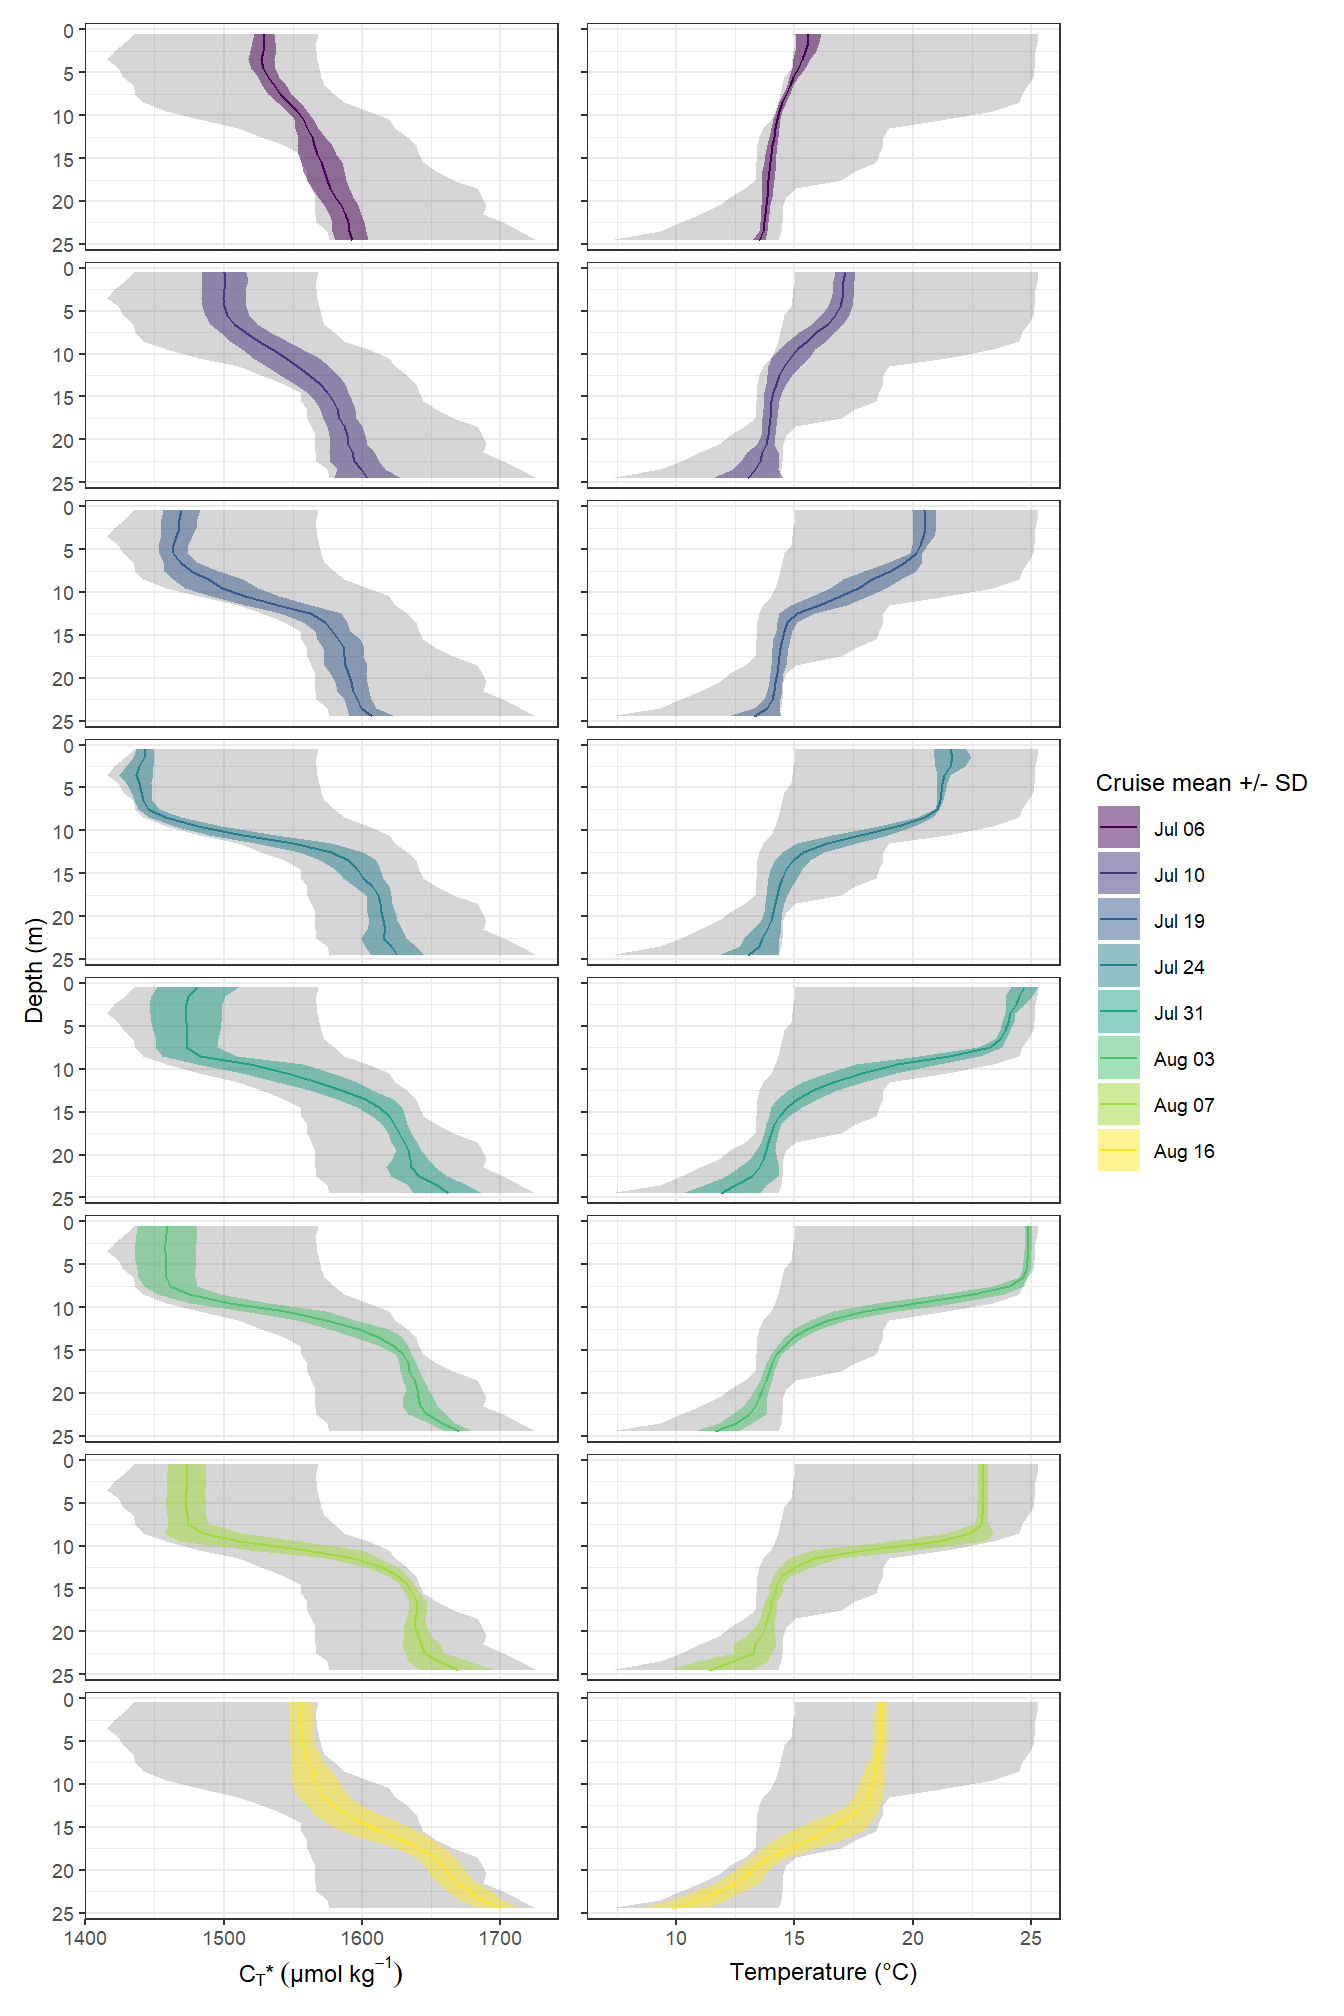
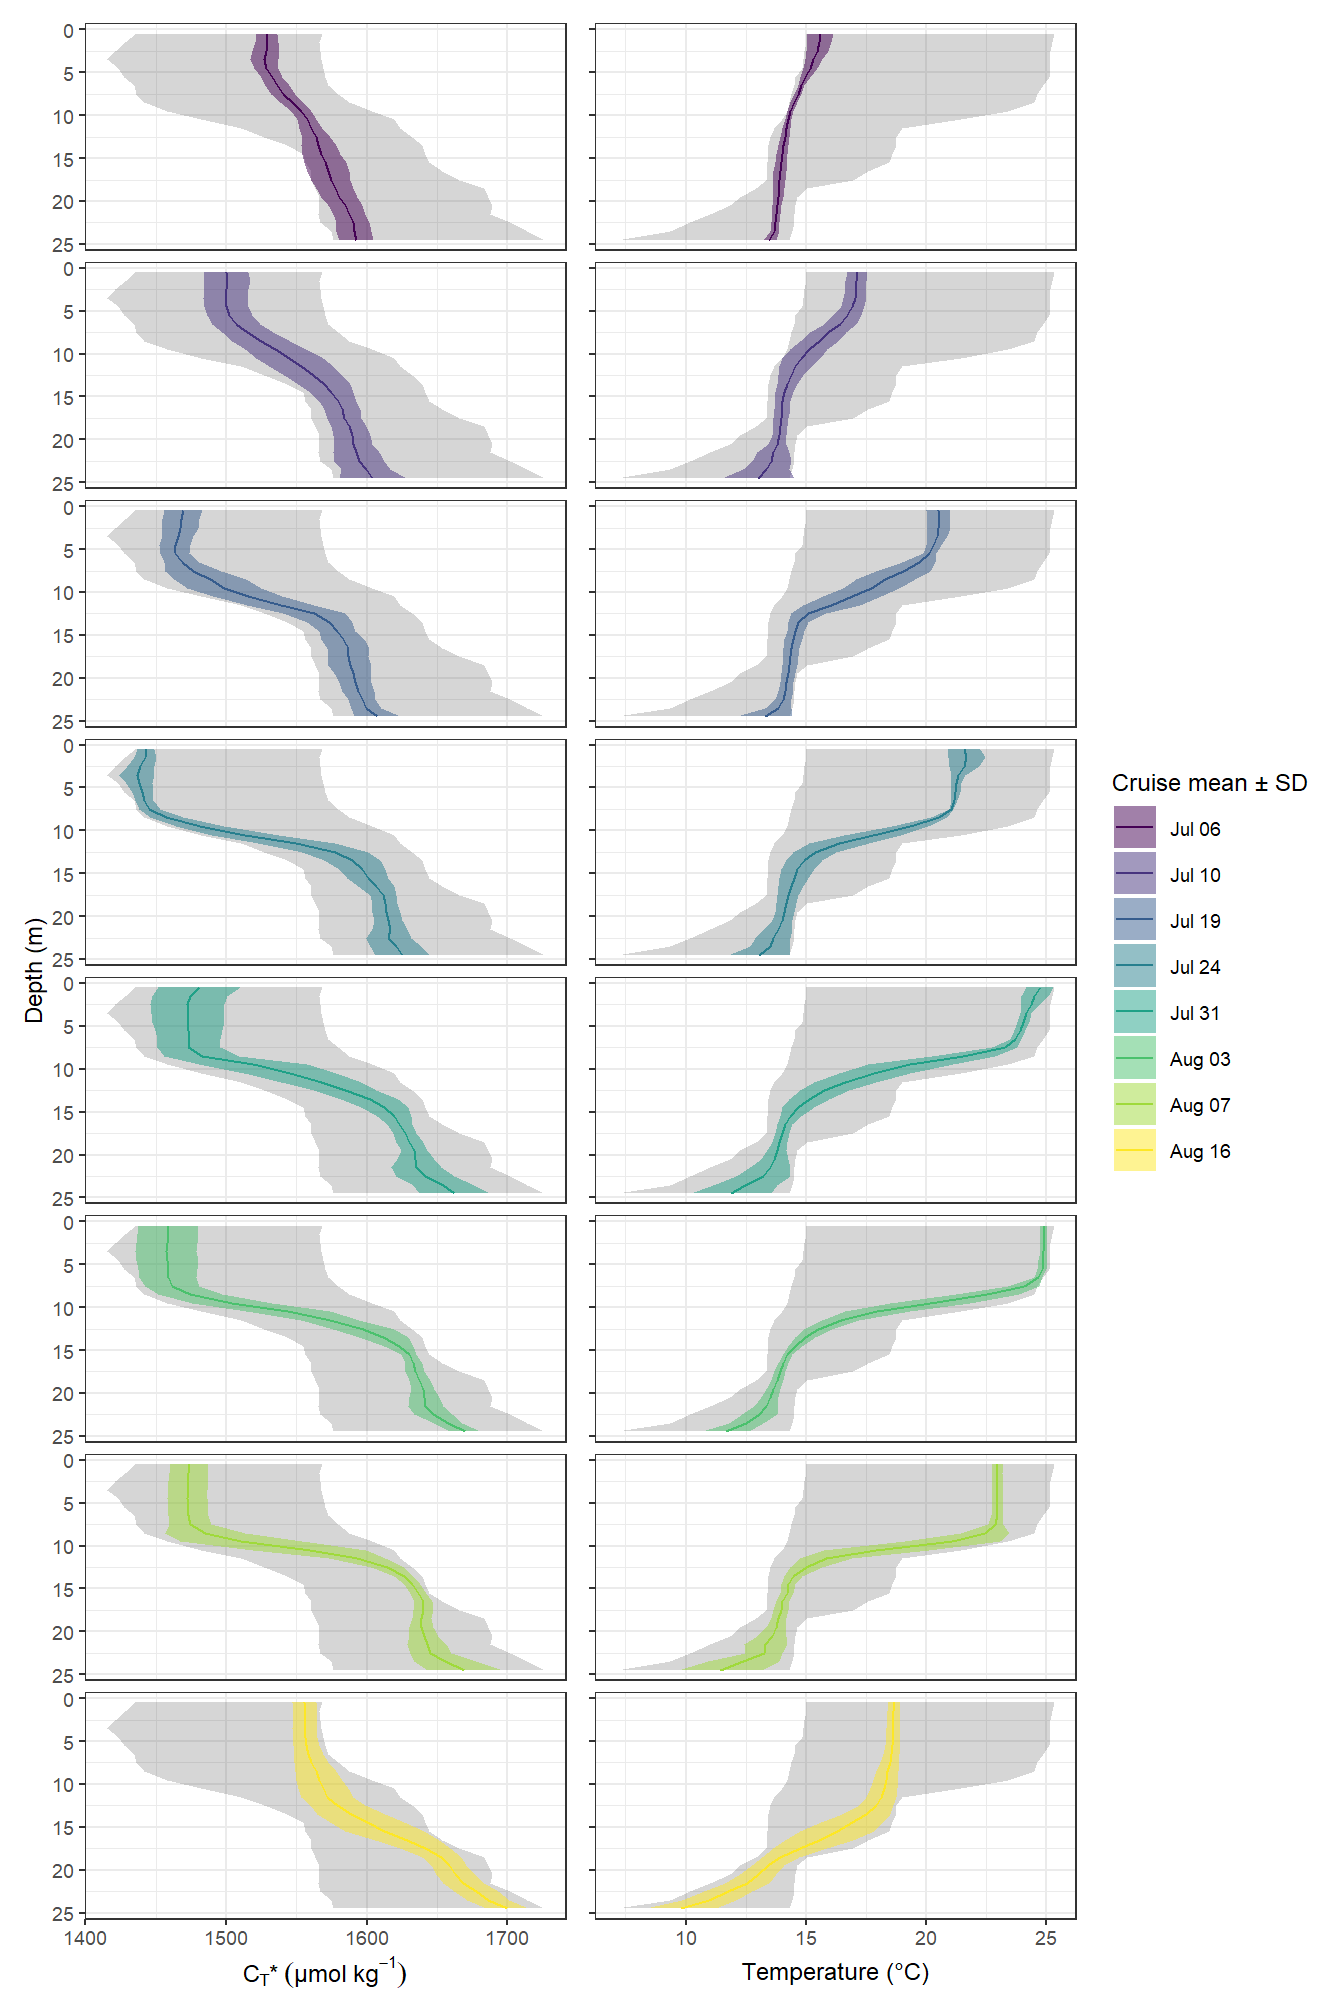
Build site.

diff --git a/docs/CT_dynamics.html b/docs/CT_dynamics.html
@@ -451,7 +451,7 @@ div.tocify {
 
 <h1 class="title toc-ignore">CT dynamics</h1>
 <h4 class="author">Jens Daniel Müller</h4>
-<h4 class="date">02 February, 2021</h4>
+<h4 class="date">03 February, 2021</h4>
 
 </div>
 
@@ -476,7 +476,7 @@ div.tocify {
 <div class="tab-content">
 <div id="summary" class="tab-pane fade in active">
 <p>
-<strong>Last updated:</strong> 2021-02-02
+<strong>Last updated:</strong> 2021-02-03
 </p>
 <p>
 <strong>Checks:</strong> <span class="glyphicon glyphicon-ok text-success" aria-hidden="true"></span> 7 <span class="glyphicon glyphicon-exclamation-sign text-danger" aria-hidden="true"></span> 0
@@ -567,16 +567,16 @@ This reproducible <a href="http://rmarkdown.rstudio.com">R Markdown</a> analysis
 <div class="panel panel-default">
 <div class="panel-heading">
 <p class="panel-title">
-<a data-toggle="collapse" data-parent="#workflowr-checks" href="#strongRepositoryversionstrongahrefhttpsgithubcomjensdanielmuellerBloomSailtree4de153fec5d85be9ddf167c0f96ed3badc0ce6aftargetblank4de153fa"> <span class="glyphicon glyphicon-ok text-success" aria-hidden="true"></span> <strong>Repository version:</strong> <a href="https://github.com/jens-daniel-mueller/BloomSail/tree/4de153fec5d85be9ddf167c0f96ed3badc0ce6af" target="_blank">4de153f</a> </a>
+<a data-toggle="collapse" data-parent="#workflowr-checks" href="#strongRepositoryversionstrongahrefhttpsgithubcomjensdanielmuellerBloomSailtree48b7a66d363096e440c8d420178d6eefe4f96acetargetblank48b7a66a"> <span class="glyphicon glyphicon-ok text-success" aria-hidden="true"></span> <strong>Repository version:</strong> <a href="https://github.com/jens-daniel-mueller/BloomSail/tree/48b7a66d363096e440c8d420178d6eefe4f96ace" target="_blank">48b7a66</a> </a>
 </p>
 </div>
[2 lines of base64/hex data omitted]
 <div class="panel-body">
 <p>
 Great! You are using Git for version control. Tracking code development and connecting the code version to the results is critical for reproducibility.
 </p>
 <p>
-The results in this page were generated with repository version <a href="https://github.com/jens-daniel-mueller/BloomSail/tree/4de153fec5d85be9ddf167c0f96ed3badc0ce6af" target="_blank">4de153f</a>. See the <em>Past versions</em> tab to see a history of the changes made to the R Markdown and HTML files.
+The results in this page were generated with repository version <a href="https://github.com/jens-daniel-mueller/BloomSail/tree/48b7a66d363096e440c8d420178d6eefe4f96ace" target="_blank">48b7a66</a>. See the <em>Past versions</em> tab to see a history of the changes made to the R Markdown and HTML files.
 </p>
 <p>
 Note that you need to be careful to ensure that all relevant files for the analysis have been committed to Git prior to generating the results (you can use <code>wflow_publish</code> or <code>wflow_git_commit</code>). workflowr only checks the R Markdown file, but you know if there are other scripts or data files that it depends on. Below is the status of the Git repository when the results were generated:
@@ -630,6 +630,40 @@ Message
 </tr>
 </thead>
 <tbody>
+<tr>
+<td>
+Rmd
+</td>
+<td>
+<a href="https://github.com/jens-daniel-mueller/BloomSail/blob/48b7a66d363096e440c8d420178d6eefe4f96ace/analysis/CT_dynamics.Rmd" target="_blank">48b7a66</a>
+</td>
+<td>
+jens-daniel-mueller
+</td>
+<td>
+2021-02-03
+</td>
+<td>
+replace +/- sign
+</td>
+</tr>
+<tr>
+<td>
+html
+</td>
+<td>
+<a href="https://rawcdn.githack.com/jens-daniel-mueller/BloomSail/d6c739533e2cc919cd02882400a70db64d049dfa/docs/CT_dynamics.html" target="_blank">d6c7395</a>
+</td>
+<td>
+jens-daniel-mueller
+</td>
+<td>
+2021-02-02
+</td>
+<td>
+Build site.
+</td>
+</tr>
 <tr>
 <td>
 Rmd
@@ -5626,9 +5660,9 @@ p_CT &lt;-
   geom_path(aes(value, dep, col = ID)) +
   scale_y_reverse() +
   scale_color_viridis_d(labels = cruise_dates$date_ID,
-                        name = &quot;Cruise mean +/- SD&quot;) +
+                        name = &quot;Cruise mean \u00B1 SD&quot;) +
   scale_fill_viridis_d(labels = cruise_dates$date_ID,
-                       name = &quot;Cruise mean +/- SD&quot;) +
+                       name = &quot;Cruise mean \u00B1 SD&quot;) +
   facet_grid(ID ~ .) +
   labs(x = expression(paste(C[T], &quot;*&quot;, ~ (µmol ~ kg ^ {-1}))),
   y = &quot;Depth (m)&quot;) +
@@ -5654,9 +5688,9 @@ p_tem &lt;-
   geom_path(aes(value, dep, col = ID)) +
   scale_y_reverse() +
   scale_color_viridis_d(labels = cruise_dates$date_ID,
-                        name = &quot;Cruise mean +/- SD&quot;) +
+                        name = &quot;Cruise mean \u00B1 SD&quot;) +
   scale_fill_viridis_d(labels = cruise_dates$date_ID,
-                       name = &quot;Cruise mean +/- SD&quot;) +
+                       name = &quot;Cruise mean \u00B1 SD&quot;) +
   facet_grid(ID ~ .) +
   labs(x = &quot;Temperature (\u00B0C)&quot;,
        y = &quot;Depth (m)&quot;) +
@@ -7574,7 +7608,7 @@ p_pCO2_surf &lt;- tm_profiles_surface_long_ID %&gt;%
   filter(var == &quot;pCO2&quot;) %&gt;%
   ggplot(aes(x = date_time)) +
   geom_ribbon(aes(ymin = mean - sd, ymax = mean + sd,
-                  fill = &quot;+/- SD&quot;), alpha = 0.2) +
+                  fill = &quot;\u00B1 SD&quot;), alpha = 0.2) +
   geom_path(aes(y = mean)) +
   geom_point(aes(y = mean)) +
   scale_color_manual(name = &quot;&quot;, values = &quot;black&quot;, guide = FALSE) +
@@ -7593,11 +7627,11 @@ p_tem_surf &lt;- tm_profiles_surface_long_ID %&gt;%
   geom_ribbon(aes(
     ymin = mean - sd,
     ymax = mean + sd,
-    fill = &quot;Mean +/- SD&quot;
+    fill = &quot;Mean \u00B1 SD&quot;
   ),
   alpha = 0.2) +
-  geom_path(aes(y = mean, col = &quot;Mean +/- SD&quot;)) +
-  geom_point(aes(y = mean, col = &quot;Mean +/- SD&quot;)) +
+  geom_path(aes(y = mean, col = &quot;Mean \u00B1 SD&quot;)) +
+  geom_point(aes(y = mean, col = &quot;Mean \u00B1 SD&quot;)) +
   scale_color_manual(name = &quot;Sensor data&quot;, values = &quot;black&quot;) +
   scale_fill_manual(name = &quot;Sensor data&quot;, values = &quot;black&quot;) +
   scale_x_datetime(date_breaks = &quot;week&quot;,
@@ -7620,7 +7654,7 @@ p_nCT_surf &lt;-
     x = date_time,
     ymin = mean - sd,
     ymax = mean + sd,
-    fill = &quot;+/- SD&quot;
+    fill = &quot;\u00B1 SD&quot;
   ),
   alpha = 0.2) +
   geom_path(aes(x = date_time, y = mean)) +
@@ -7635,7 +7669,7 @@ p_nCT_surf &lt;-
       x = date_time_ID,
       ymin = value_mean - value_sd,
       ymax = value_mean + value_sd,
-      color = &quot;Mean +/- SD&quot;
+      color = &quot;Mean \u00B1 SD&quot;
     )
   ) +
   geom_point(
@@ -7643,7 +7677,7 @@ p_nCT_surf &lt;-
       filter(var == &quot;nCT&quot;),
     aes(x = date_time_ID,
         y = value_mean,
-        color = &quot;Mean +/- SD&quot;)
+        color = &quot;Mean \u00B1 SD&quot;)
   ) +
   scale_color_manual(name = &quot;Bottle data&quot;, values = &quot;red&quot;) +
   scale_x_datetime(date_breaks = &quot;week&quot;,
